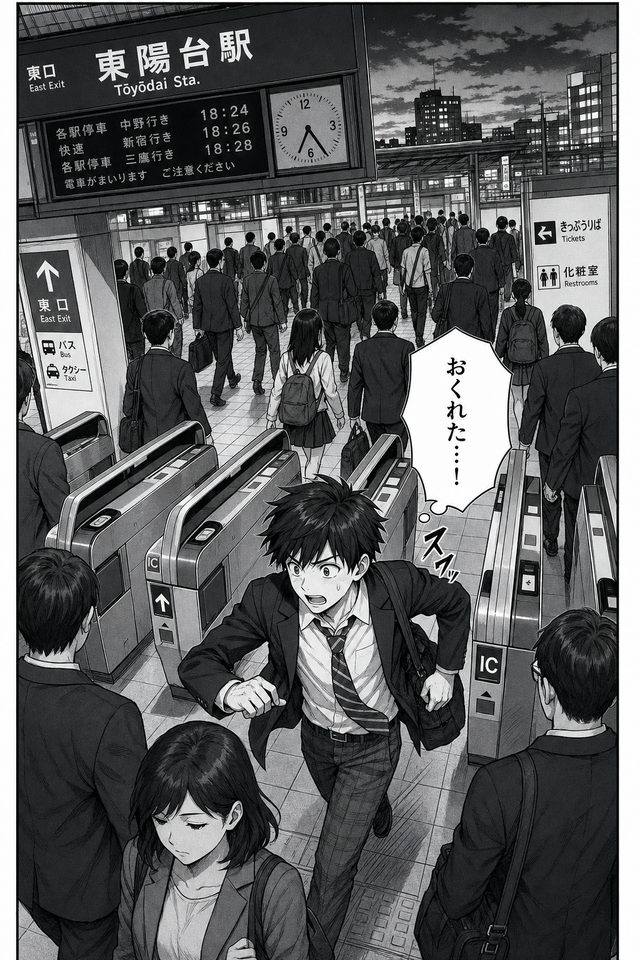
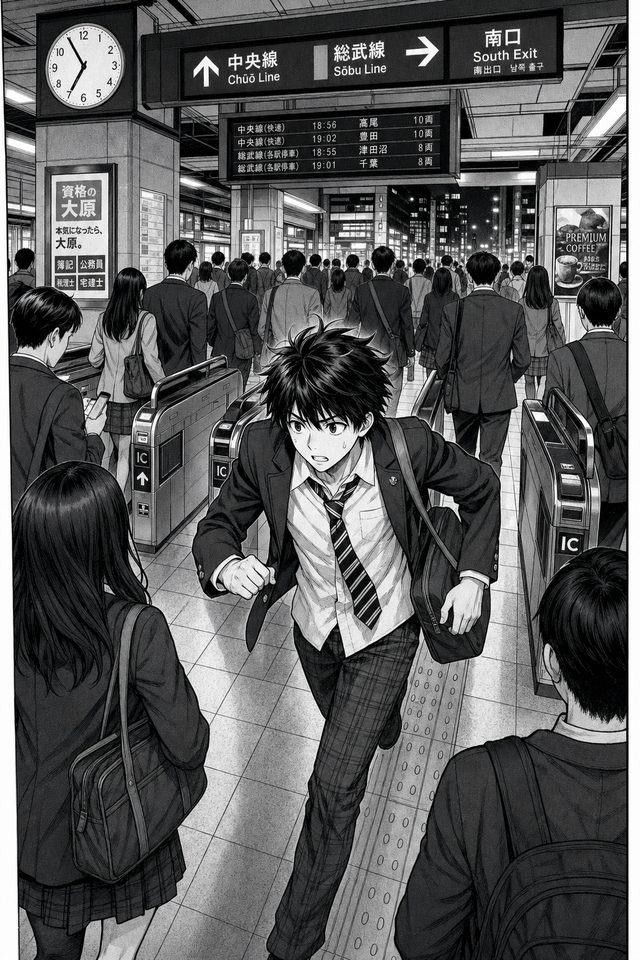
漫画プロファイルのサンプルを1ページネームに拡げ画像を再生成
仕様書の短い2コマ例を station-name.mes と同じ1ページ（5コマ）に統一し、
各コマの参考画像を再生成してサンプル直下に表示する。

diff --git a/docs/spec/03-media-profiles.md b/docs/spec/03-media-profiles.md
@@ -40,34 +40,56 @@ $雑踏。遠くで電車の発車ベル
 
 重視するデコレーター: `@ # % ^ *`（`$ !` も可）
 
+1ページ分のネーム例（実ファイル: [examples/manga/station-name.mes](../../examples/manga/station-name.mes)）:
+
 ```mes
 profile: manga
+title: 駅前の二人（ネーム）
 ----
 == 1ページ
 
 %1
-^俯瞰ぎみ / 改札前の雑踏
-#にかが人波をかき分けて来る
+^俯瞰ぎみ・広目
+#夕方の改札前。人波。にかが焦って入ってくる
+$雑踏（小さく）
+
+%2
+^にかバストアップ
 @にか :表情 焦り
 おくれた……！
 
-%2
-^にか寄り
+%3
+^二人を入れる引き
+#こいとが柱の陰から半歩出る
 @こいと :表情 呆れ
 そういうニカちゃんも、ついさっき来たばかりじゃないですか。
+
+%4
+^にか寄り（汗）
+@にか :表情 苦笑
+#視線を逸らしながらボソッ
+そういう時は……ランチを奢らせるのがだな…
+
+%5
+^こいと寄り
+@こいと :表情 真顔
+今日はだめです。
 ```
 
 ### 参考画像（サンプルテキストから生成）
 
 漫画プロファイルのサンプルは、テキストだけだと構図の感触が伝わりにくい。  
-上のサンプル各コマから生成した **参考画像** を、サンプルテキストの直下に置く（原稿の一部ではない。二次ツール側の読み物）。
+上の **1ページ（5コマ）** から生成した参考画像を、サンプルテキストの直下に置く（原稿の一部ではない。二次ツール側の読み物）。
 
 | コマ | 参考画像 |
 |------|----------|
-| `%1` 俯瞰ぎみ / 改札前の雑踏 | ![コマ1 参考画像](../../examples/manga/refs/profile-sample-1.jpg) |
-| `%2` にか寄り・こいとの呆れ | ![コマ2 参考画像](../../examples/manga/refs/profile-sample-2.jpg) |
+| `%1` 俯瞰ぎみ・広目（セリフなし） | ![コマ1](../../examples/manga/refs/station-name-1.jpg) |
+| `%2` にかバストアップ | ![コマ2](../../examples/manga/refs/station-name-2.jpg) |
+| `%3` 二人を入れる引き | ![コマ3](../../examples/manga/refs/station-name-3.jpg) |
+| `%4` にか寄り（汗） | ![コマ4](../../examples/manga/refs/station-name-4.jpg) |
+| `%5` こいと寄り | ![コマ5](../../examples/manga/refs/station-name-5.jpg) |
 
-より長いページ例とコマごとの参考画像は [examples/manga/](../../examples/manga/) を参照。
+コマごとにテキストと画像を並べた読み方は [examples/manga/](../../examples/manga/) を参照。
 
 指針:
 

diff --git a/examples/manga/README.md b/examples/manga/README.md
@@ -1,13 +1,14 @@
 # 漫画ネーム サンプル
 
-`profile: manga` の実例。本文は `.mes`、コマの感触は参考画像で補う。
+`profile: manga` の1ページ分ネーム。本文は `.mes`、コマの感触は参考画像で補う。
 
 参考画像は原稿の一部ではない（[ADR 0004](../../docs/decisions/0004-manga-reference-images.md)）。  
-サンプルテキストの各 `%` に対応する画像を、その説明の直下に置く。
+仕様書の漫画プロファイル・サンプルと同じ原稿を使う。
 
-## station-name.mes — 駅前の二人（1ページ）
+## station-name.mes — 駅前の二人（1ページ / 5コマ）
 
-ソース: [station-name.mes](./station-name.mes)
+ソース: [station-name.mes](./station-name.mes)  
+仕様書: [03-media-profiles.md](../../docs/spec/03-media-profiles.md)
 
 ```mes
 profile: manga
@@ -63,7 +64,6 @@ $雑踏（小さく）
 
 ## refs/
 
-| ファイル | 対応 |
-|----------|------|
-| `refs/profile-sample-*.jpg` | 仕様書 `03-media-profiles.md` の短いサンプル |
-| `refs/station-name-*.jpg` | 本ディレクトリの `station-name.mes` |
+| ファイル | 対応コマ |
+|----------|----------|
+| `refs/station-name-1.jpg` … `5.jpg` | `%1` … `%5`（仕様書サンプルと共通） |

diff --git a/CHANGELOG.md b/CHANGELOG.md
@@ -3,8 +3,8 @@
 ## 0.0.3 — 2026-07-25
 
 - ADR 0004: 漫画プロファイルの参考画像は二次成果物（MesLang 本文には埋め込まない）
-- `profile: manga` サンプルテキストからコマ参考画像を生成し、仕様書・`examples/manga/` でサンプル直下に表示
-- `examples/manga/refs/` とサンプル README を追加
+- `profile: manga` のサンプルを1ページ（5コマ）のネームに拡げ、各コマの参考画像を生成してサンプル直下に表示
+- `examples/manga/refs/` とサンプル README を追加（仕様書サンプルと同一原稿）
 
 ## 0.0.2 — 2026-07-25
 
